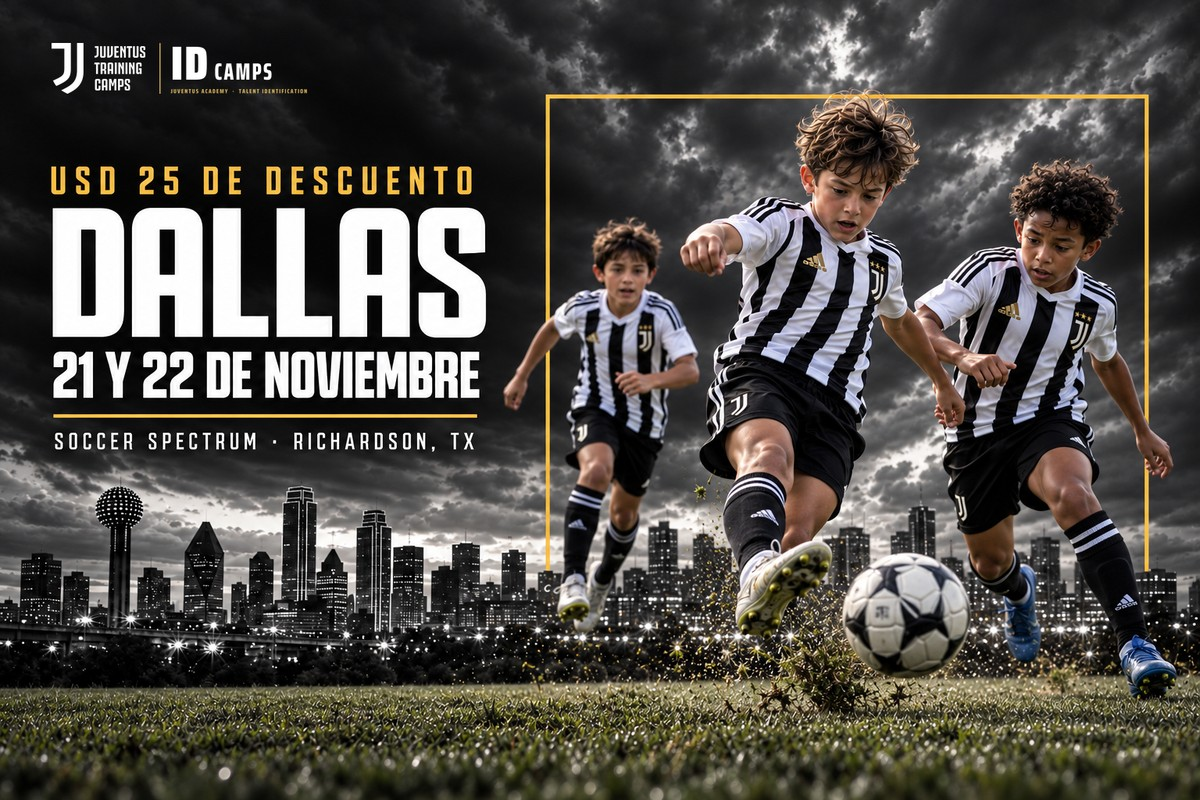
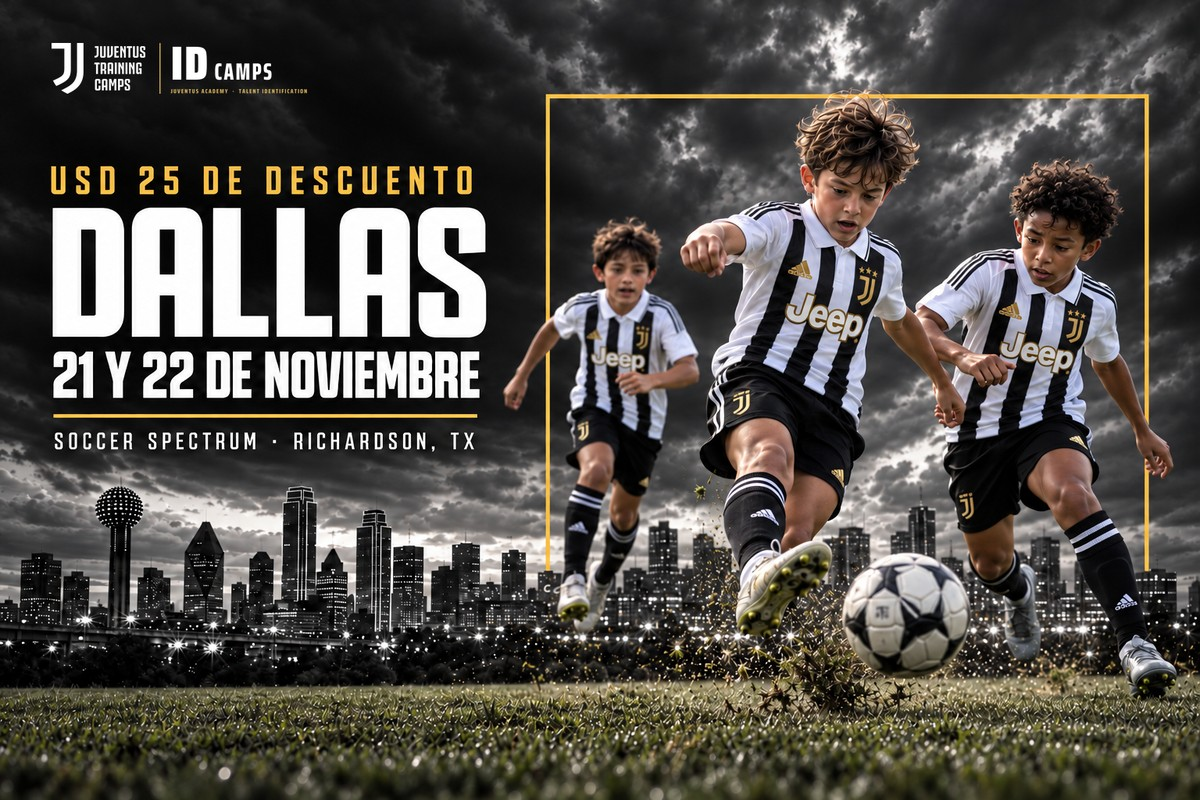
Camiseta 2026-27 (Jeep) en las cabeceras y la foto de los correos

diff --git a/email_pasadas.html b/email_pasadas.html
@@ -6,9 +6,9 @@
 <table role="presentation" width="100%" cellpadding="0" cellspacing="0" border="0" style="background-color:#eceae6;">
 <tr><td align="center" style="padding:16px 8px;">
 <table role="presentation" width="600" cellpadding="0" cellspacing="0" border="0" style="width:100%;max-width:600px;background-color:#ffffff;">
-<tr><td><a href="https://juventuscampsusa.com/id-camps/128/Dallas?utm_source=email&utm_medium=email&utm_campaign=idcamps_2627&utm_term=dal&utm_content=dal_codigo_pasadas#:~:text=Register%20%2D%20Juventus%20Training%20Camps"><img src="https://almacenamiento982-blip.github.io/idcamps-dallas-codigo/img/cab_codigo.jpg" width="600" alt="Juventus ID Camp Dallas · 21 y 22 de noviembre · USD 25 de descuento" style="display:block;width:100%;max-width:600px;height:auto;border:0;margin:0;"></a></td></tr>
+<tr><td><a href="https://juventuscampsusa.com/id-camps/128/Dallas?utm_source=email&utm_medium=email&utm_campaign=idcamps_2627&utm_term=dal&utm_content=dal_codigo_pasadas#:~:text=Register%20%2D%20Juventus%20Training%20Camps"><img src="https://almacenamiento982-blip.github.io/idcamps-dallas-codigo/img/cab_codigo.jpg?v=2627" width="600" alt="Juventus ID Camp Dallas · 21 y 22 de noviembre · USD 25 de descuento" style="display:block;width:100%;max-width:600px;height:auto;border:0;margin:0;"></a></td></tr>
 <tr><td style="padding:28px 30px 6px;font-family:Arial,Helvetica,sans-serif;font-size:16px;line-height:25px;color:#111111;">
-<p style="margin:0 0 14px;">Hola María,</p><p style="margin:0 0 14px;">Hace un tiempo empezaste la inscripción para el ID Camp de Juventus en Dallas. Este año volvemos a Soccer Spectrum, el sábado 21 y domingo 22 de noviembre, con los entrenadores de Juventus Academy que vienen desde Italia.</p><p style="margin:0 0 6px;">Para las familias que ya se interesaron en el camp, tenemos un descuento:</p><table role="presentation" width="100%" cellpadding="0" cellspacing="0" border="0" style="margin:18px 0;"><tr><td align="center" style="border:2px dashed #A87A2D;background-color:#faf6ee;padding:18px 14px;font-family:Arial,Helvetica,sans-serif;"><div style="font-size:12px;letter-spacing:2px;text-transform:uppercase;color:#A87A2D;font-weight:bold;">Tu código de descuento</div><div style="font-size:26px;line-height:34px;font-weight:bold;letter-spacing:1px;color:#111111;margin:6px 0;word-break:break-word;">JUVESPECTRUM</div><div style="font-size:16px;color:#111111;"><b>USD 25 de descuento</b> · válido hasta el sábado 24 de octubre</div></td></tr></table><p style="margin:0 0 10px;">Es un descuento solo para esta semana: vence el sábado 24 de octubre. Aprovéchalo antes de que se cierre el plazo.</p><table role="presentation" cellpadding="0" cellspacing="0" border="0" style="margin:4px 0 6px;"><tr><td valign="top" style="font-family:Arial,Helvetica,sans-serif;font-size:15px;font-weight:bold;color:#A87A2D;padding:4px 10px 4px 0;">1</td><td style="font-family:Arial,Helvetica,sans-serif;font-size:15px;line-height:23px;color:#111111;padding:4px 0;">Entra a la página del ID Camp de Dallas con el botón de abajo.</td></tr><tr><td valign="top" style="font-family:Arial,Helvetica,sans-serif;font-size:15px;font-weight:bold;color:#A87A2D;padding:4px 10px 4px 0;">2</td><td style="font-family:Arial,Helvetica,sans-serif;font-size:15px;line-height:23px;color:#111111;padding:4px 0;">Completa la inscripción con los datos de tu hijo o hija.</td></tr><tr><td valign="top" style="font-family:Arial,Helvetica,sans-serif;font-size:15px;font-weight:bold;color:#A87A2D;padding:4px 10px 4px 0;">3</td><td style="font-family:Arial,Helvetica,sans-serif;font-size:15px;line-height:23px;color:#111111;padding:4px 0;">Cuando el sistema te pida un código de descuento, escribe <b>JUVESPECTRUM</b>.</td></tr></table><table role="presentation" cellpadding="0" cellspacing="0" border="0" align="center" style="margin:22px auto 10px;"><tr><td align="center" bgcolor="#A87A2D" style="background-color:#A87A2D;"><a href="https://juventuscampsusa.com/id-camps/128/Dallas?utm_source=email&utm_medium=email&utm_campaign=idcamps_2627&utm_term=dal&utm_content=dal_codigo_pasadas#:~:text=Register%20%2D%20Juventus%20Training%20Camps" style="display:inline-block;padding:15px 30px;font-family:Arial,Helvetica,sans-serif;font-size:14px;font-weight:bold;letter-spacing:1px;text-transform:uppercase;color:#111111;text-decoration:none;">Inscribirme con mi código &rarr;</a></td></tr></table><table role="presentation" width="100%" cellpadding="0" cellspacing="0" border="0" style="margin:16px 0;"><tr><td style="background-color:#111111;padding:14px 18px;font-family:Arial,Helvetica,sans-serif;font-size:15px;line-height:26px;color:#ffffff;">&#128197; Sábado 21 y domingo 22 de noviembre · 9 AM a 1 PM<br>&#128205; Soccer Spectrum, 1251 Digital Dr., Richardson, TX<br>&#9917; Niños y niñas de 6 a 16 años, jugadores y porteros</td></tr></table><a href="https://juventuscampsusa.com/id-camps/128/Dallas?utm_source=email&utm_medium=email&utm_campaign=idcamps_2627&utm_term=dal&utm_content=dal_codigo_pasadas#:~:text=Register%20%2D%20Juventus%20Training%20Camps"><img src="https://almacenamiento982-blip.github.io/idcamps-dallas-codigo/img/familias.jpg" width="540" alt="Jugadores del ID Camp de Juventus abrazados" style="display:block;width:100%;max-width:540px;height:auto;border:0;margin:6px 0 14px;"></a><p style="margin:0 0 6px;">Más de 300 familias del área de Dallas ya entrenaron con Juventus. Durante los dos días, los entrenadores observan a cada jugador, y los que más se destacan quedan anotados para futuras oportunidades de Juventus Academy, como la Juventus Training Experience en Italia.</p>
+<p style="margin:0 0 14px;">Hola María,</p><p style="margin:0 0 14px;">Hace un tiempo empezaste la inscripción para el ID Camp de Juventus en Dallas. Este año volvemos a Soccer Spectrum, el sábado 21 y domingo 22 de noviembre, con los entrenadores de Juventus Academy que vienen desde Italia.</p><p style="margin:0 0 6px;">Para las familias que ya se interesaron en el camp, tenemos un descuento:</p><table role="presentation" width="100%" cellpadding="0" cellspacing="0" border="0" style="margin:18px 0;"><tr><td align="center" style="border:2px dashed #A87A2D;background-color:#faf6ee;padding:18px 14px;font-family:Arial,Helvetica,sans-serif;"><div style="font-size:12px;letter-spacing:2px;text-transform:uppercase;color:#A87A2D;font-weight:bold;">Tu código de descuento</div><div style="font-size:26px;line-height:34px;font-weight:bold;letter-spacing:1px;color:#111111;margin:6px 0;word-break:break-word;">JUVESPECTRUM</div><div style="font-size:16px;color:#111111;"><b>USD 25 de descuento</b> · válido hasta el sábado 24 de octubre</div></td></tr></table><p style="margin:0 0 10px;">Es un descuento solo para esta semana: vence el sábado 24 de octubre. Aprovéchalo antes de que se cierre el plazo.</p><table role="presentation" cellpadding="0" cellspacing="0" border="0" style="margin:4px 0 6px;"><tr><td valign="top" style="font-family:Arial,Helvetica,sans-serif;font-size:15px;font-weight:bold;color:#A87A2D;padding:4px 10px 4px 0;">1</td><td style="font-family:Arial,Helvetica,sans-serif;font-size:15px;line-height:23px;color:#111111;padding:4px 0;">Entra a la página del ID Camp de Dallas con el botón de abajo.</td></tr><tr><td valign="top" style="font-family:Arial,Helvetica,sans-serif;font-size:15px;font-weight:bold;color:#A87A2D;padding:4px 10px 4px 0;">2</td><td style="font-family:Arial,Helvetica,sans-serif;font-size:15px;line-height:23px;color:#111111;padding:4px 0;">Completa la inscripción con los datos de tu hijo o hija.</td></tr><tr><td valign="top" style="font-family:Arial,Helvetica,sans-serif;font-size:15px;font-weight:bold;color:#A87A2D;padding:4px 10px 4px 0;">3</td><td style="font-family:Arial,Helvetica,sans-serif;font-size:15px;line-height:23px;color:#111111;padding:4px 0;">Cuando el sistema te pida un código de descuento, escribe <b>JUVESPECTRUM</b>.</td></tr></table><table role="presentation" cellpadding="0" cellspacing="0" border="0" align="center" style="margin:22px auto 10px;"><tr><td align="center" bgcolor="#A87A2D" style="background-color:#A87A2D;"><a href="https://juventuscampsusa.com/id-camps/128/Dallas?utm_source=email&utm_medium=email&utm_campaign=idcamps_2627&utm_term=dal&utm_content=dal_codigo_pasadas#:~:text=Register%20%2D%20Juventus%20Training%20Camps" style="display:inline-block;padding:15px 30px;font-family:Arial,Helvetica,sans-serif;font-size:14px;font-weight:bold;letter-spacing:1px;text-transform:uppercase;color:#111111;text-decoration:none;">Inscribirme con mi código &rarr;</a></td></tr></table><table role="presentation" width="100%" cellpadding="0" cellspacing="0" border="0" style="margin:16px 0;"><tr><td style="background-color:#111111;padding:14px 18px;font-family:Arial,Helvetica,sans-serif;font-size:15px;line-height:26px;color:#ffffff;">&#128197; Sábado 21 y domingo 22 de noviembre · 9 AM a 1 PM<br>&#128205; Soccer Spectrum, 1251 Digital Dr., Richardson, TX<br>&#9917; Niños y niñas de 6 a 16 años, jugadores y porteros</td></tr></table><a href="https://juventuscampsusa.com/id-camps/128/Dallas?utm_source=email&utm_medium=email&utm_campaign=idcamps_2627&utm_term=dal&utm_content=dal_codigo_pasadas#:~:text=Register%20%2D%20Juventus%20Training%20Camps"><img src="https://almacenamiento982-blip.github.io/idcamps-dallas-codigo/img/familias.jpg?v=2627" width="540" alt="Jugadores del ID Camp de Juventus abrazados" style="display:block;width:100%;max-width:540px;height:auto;border:0;margin:6px 0 14px;"></a><p style="margin:0 0 6px;">Más de 300 familias del área de Dallas ya entrenaron con Juventus. Durante los dos días, los entrenadores observan a cada jugador, y los que más se destacan quedan anotados para futuras oportunidades de Juventus Academy, como la Juventus Training Experience en Italia.</p>
 </td></tr>
 <tr><td style="padding:16px 30px 26px;"><table role="presentation" width="100%" cellpadding="0" cellspacing="0" border="0"><tr><td style="background-color:#f4f2ee;padding:16px 18px;font-family:Arial,Helvetica,sans-serif;font-size:14px;line-height:21px;color:#333333;"><b>Prefer English?</b> The Juventus ID Camp returns to Soccer Spectrum on November 21–22. You started a registration before: use code <b>JUVESPECTRUM</b> for USD 25 off, valid until Saturday, October 24. <a href="https://juventuscampsusa.com/id-camps/128/Dallas?utm_source=email&utm_medium=email&utm_campaign=idcamps_2627&utm_term=dal&utm_content=dal_codigo_pasadas#:~:text=Register%20%2D%20Juventus%20Training%20Camps" style="color:#A87A2D;font-weight:bold;">Use your code here</a>.</td></tr></table></td></tr>
 </table>

diff --git a/email_welcome.html b/email_welcome.html
@@ -6,9 +6,9 @@
 <table role="presentation" width="100%" cellpadding="0" cellspacing="0" border="0" style="background-color:#eceae6;">
 <tr><td align="center" style="padding:16px 8px;">
 <table role="presentation" width="600" cellpadding="0" cellspacing="0" border="0" style="width:100%;max-width:600px;background-color:#ffffff;">
-<tr><td><a href="https://juventuscampsusa.com/id-camps/128/Dallas?utm_source=email&utm_medium=email&utm_campaign=idcamps_2627&utm_term=dal&utm_content=dal_codigo_welcome#:~:text=Register%20%2D%20Juventus%20Training%20Camps"><img src="https://almacenamiento982-blip.github.io/idcamps-dallas-codigo/img/cab_welcome.jpg" width="600" alt="Juventus ID Camp Dallas · 21 y 22 de noviembre · Bienvenidos de vuelta" style="display:block;width:100%;max-width:600px;height:auto;border:0;margin:0;"></a></td></tr>
+<tr><td><a href="https://juventuscampsusa.com/id-camps/128/Dallas?utm_source=email&utm_medium=email&utm_campaign=idcamps_2627&utm_term=dal&utm_content=dal_codigo_welcome#:~:text=Register%20%2D%20Juventus%20Training%20Camps"><img src="https://almacenamiento982-blip.github.io/idcamps-dallas-codigo/img/cab_welcome.jpg?v=2627" width="600" alt="Juventus ID Camp Dallas · 21 y 22 de noviembre · Bienvenidos de vuelta" style="display:block;width:100%;max-width:600px;height:auto;border:0;margin:0;"></a></td></tr>
 <tr><td style="padding:28px 30px 6px;font-family:Arial,Helvetica,sans-serif;font-size:16px;line-height:25px;color:#111111;">
-<p style="margin:0 0 14px;">Hola María,</p><p style="margin:0 0 14px;">Tu familia ya vivió el ID Camp de Juventus en Dallas. Este año volvemos a Soccer Spectrum, el sábado 21 y domingo 22 de noviembre, con los entrenadores de Juventus Academy que vienen desde Italia. El ID Camp viene a Dallas una sola vez al año.</p><p style="margin:0 0 6px;">Como ya eres parte de la familia Juventus, tienes un descuento exclusivo:</p><table role="presentation" width="100%" cellpadding="0" cellspacing="0" border="0" style="margin:18px 0;"><tr><td align="center" style="border:2px dashed #A87A2D;background-color:#faf6ee;padding:18px 14px;font-family:Arial,Helvetica,sans-serif;"><div style="font-size:12px;letter-spacing:2px;text-transform:uppercase;color:#A87A2D;font-weight:bold;">Exclusivo para familias Juventus</div><div style="font-size:26px;line-height:34px;font-weight:bold;letter-spacing:1px;color:#111111;margin:6px 0;word-break:break-word;">JUVESPECTRUM</div><div style="font-size:16px;color:#111111;"><b>USD 25 de descuento</b> · válido hasta el sábado 24 de octubre</div></td></tr></table><table role="presentation" cellpadding="0" cellspacing="0" border="0" style="margin:4px 0 6px;"><tr><td valign="top" style="font-family:Arial,Helvetica,sans-serif;font-size:15px;font-weight:bold;color:#A87A2D;padding:4px 10px 4px 0;">1</td><td style="font-family:Arial,Helvetica,sans-serif;font-size:15px;line-height:23px;color:#111111;padding:4px 0;">Entra a la página del ID Camp de Dallas con el botón de abajo.</td></tr><tr><td valign="top" style="font-family:Arial,Helvetica,sans-serif;font-size:15px;font-weight:bold;color:#A87A2D;padding:4px 10px 4px 0;">2</td><td style="font-family:Arial,Helvetica,sans-serif;font-size:15px;line-height:23px;color:#111111;padding:4px 0;">Completa la inscripción con los datos de tu hijo o hija.</td></tr><tr><td valign="top" style="font-family:Arial,Helvetica,sans-serif;font-size:15px;font-weight:bold;color:#A87A2D;padding:4px 10px 4px 0;">3</td><td style="font-family:Arial,Helvetica,sans-serif;font-size:15px;line-height:23px;color:#111111;padding:4px 0;">Cuando el sistema te pida un código de descuento, escribe <b>JUVESPECTRUM</b>.</td></tr></table><table role="presentation" cellpadding="0" cellspacing="0" border="0" align="center" style="margin:22px auto 10px;"><tr><td align="center" bgcolor="#A87A2D" style="background-color:#A87A2D;"><a href="https://juventuscampsusa.com/id-camps/128/Dallas?utm_source=email&utm_medium=email&utm_campaign=idcamps_2627&utm_term=dal&utm_content=dal_codigo_welcome#:~:text=Register%20%2D%20Juventus%20Training%20Camps" style="display:inline-block;padding:15px 30px;font-family:Arial,Helvetica,sans-serif;font-size:14px;font-weight:bold;letter-spacing:1px;text-transform:uppercase;color:#111111;text-decoration:none;">Inscribirme con mi código &rarr;</a></td></tr></table><table role="presentation" width="100%" cellpadding="0" cellspacing="0" border="0" style="margin:16px 0;"><tr><td style="background-color:#111111;padding:14px 18px;font-family:Arial,Helvetica,sans-serif;font-size:15px;line-height:26px;color:#ffffff;">&#128197; Sábado 21 y domingo 22 de noviembre · 9 AM a 1 PM<br>&#128205; Soccer Spectrum, 1251 Digital Dr., Richardson, TX<br>&#9917; Niños y niñas de 6 a 16 años, jugadores y porteros</td></tr></table><a href="https://juventuscampsusa.com/id-camps/128/Dallas?utm_source=email&utm_medium=email&utm_campaign=idcamps_2627&utm_term=dal&utm_content=dal_codigo_welcome#:~:text=Register%20%2D%20Juventus%20Training%20Camps"><img src="https://almacenamiento982-blip.github.io/idcamps-dallas-codigo/img/familias.jpg" width="540" alt="Jugadores del ID Camp de Juventus abrazados" style="display:block;width:100%;max-width:540px;height:auto;border:0;margin:6px 0 14px;"></a><p style="margin:0 0 6px;">Durante los dos días, los entrenadores observan a cada jugador. Los que más se destacan quedan anotados para futuras oportunidades de Juventus Academy, como la Juventus Training Experience en Italia.</p>
+<p style="margin:0 0 14px;">Hola María,</p><p style="margin:0 0 14px;">Tu familia ya vivió el ID Camp de Juventus en Dallas. Este año volvemos a Soccer Spectrum, el sábado 21 y domingo 22 de noviembre, con los entrenadores de Juventus Academy que vienen desde Italia. El ID Camp viene a Dallas una sola vez al año.</p><p style="margin:0 0 6px;">Como ya eres parte de la familia Juventus, tienes un descuento exclusivo:</p><table role="presentation" width="100%" cellpadding="0" cellspacing="0" border="0" style="margin:18px 0;"><tr><td align="center" style="border:2px dashed #A87A2D;background-color:#faf6ee;padding:18px 14px;font-family:Arial,Helvetica,sans-serif;"><div style="font-size:12px;letter-spacing:2px;text-transform:uppercase;color:#A87A2D;font-weight:bold;">Exclusivo para familias Juventus</div><div style="font-size:26px;line-height:34px;font-weight:bold;letter-spacing:1px;color:#111111;margin:6px 0;word-break:break-word;">JUVESPECTRUM</div><div style="font-size:16px;color:#111111;"><b>USD 25 de descuento</b> · válido hasta el sábado 24 de octubre</div></td></tr></table><table role="presentation" cellpadding="0" cellspacing="0" border="0" style="margin:4px 0 6px;"><tr><td valign="top" style="font-family:Arial,Helvetica,sans-serif;font-size:15px;font-weight:bold;color:#A87A2D;padding:4px 10px 4px 0;">1</td><td style="font-family:Arial,Helvetica,sans-serif;font-size:15px;line-height:23px;color:#111111;padding:4px 0;">Entra a la página del ID Camp de Dallas con el botón de abajo.</td></tr><tr><td valign="top" style="font-family:Arial,Helvetica,sans-serif;font-size:15px;font-weight:bold;color:#A87A2D;padding:4px 10px 4px 0;">2</td><td style="font-family:Arial,Helvetica,sans-serif;font-size:15px;line-height:23px;color:#111111;padding:4px 0;">Completa la inscripción con los datos de tu hijo o hija.</td></tr><tr><td valign="top" style="font-family:Arial,Helvetica,sans-serif;font-size:15px;font-weight:bold;color:#A87A2D;padding:4px 10px 4px 0;">3</td><td style="font-family:Arial,Helvetica,sans-serif;font-size:15px;line-height:23px;color:#111111;padding:4px 0;">Cuando el sistema te pida un código de descuento, escribe <b>JUVESPECTRUM</b>.</td></tr></table><table role="presentation" cellpadding="0" cellspacing="0" border="0" align="center" style="margin:22px auto 10px;"><tr><td align="center" bgcolor="#A87A2D" style="background-color:#A87A2D;"><a href="https://juventuscampsusa.com/id-camps/128/Dallas?utm_source=email&utm_medium=email&utm_campaign=idcamps_2627&utm_term=dal&utm_content=dal_codigo_welcome#:~:text=Register%20%2D%20Juventus%20Training%20Camps" style="display:inline-block;padding:15px 30px;font-family:Arial,Helvetica,sans-serif;font-size:14px;font-weight:bold;letter-spacing:1px;text-transform:uppercase;color:#111111;text-decoration:none;">Inscribirme con mi código &rarr;</a></td></tr></table><table role="presentation" width="100%" cellpadding="0" cellspacing="0" border="0" style="margin:16px 0;"><tr><td style="background-color:#111111;padding:14px 18px;font-family:Arial,Helvetica,sans-serif;font-size:15px;line-height:26px;color:#ffffff;">&#128197; Sábado 21 y domingo 22 de noviembre · 9 AM a 1 PM<br>&#128205; Soccer Spectrum, 1251 Digital Dr., Richardson, TX<br>&#9917; Niños y niñas de 6 a 16 años, jugadores y porteros</td></tr></table><a href="https://juventuscampsusa.com/id-camps/128/Dallas?utm_source=email&utm_medium=email&utm_campaign=idcamps_2627&utm_term=dal&utm_content=dal_codigo_welcome#:~:text=Register%20%2D%20Juventus%20Training%20Camps"><img src="https://almacenamiento982-blip.github.io/idcamps-dallas-codigo/img/familias.jpg?v=2627" width="540" alt="Jugadores del ID Camp de Juventus abrazados" style="display:block;width:100%;max-width:540px;height:auto;border:0;margin:6px 0 14px;"></a><p style="margin:0 0 6px;">Durante los dos días, los entrenadores observan a cada jugador. Los que más se destacan quedan anotados para futuras oportunidades de Juventus Academy, como la Juventus Training Experience en Italia.</p>
 </td></tr>
 <tr><td style="padding:16px 30px 26px;"><table role="presentation" width="100%" cellpadding="0" cellspacing="0" border="0"><tr><td style="background-color:#f4f2ee;padding:16px 18px;font-family:Arial,Helvetica,sans-serif;font-size:14px;line-height:21px;color:#333333;"><b>Prefer English?</b> Welcome back! The Juventus ID Camp returns to Soccer Spectrum on November 21–22. As a Juventus family, use code <b>JUVESPECTRUM</b> for USD 25 off, valid until Saturday, October 24. <a href="https://juventuscampsusa.com/id-camps/128/Dallas?utm_source=email&utm_medium=email&utm_campaign=idcamps_2627&utm_term=dal&utm_content=dal_codigo_welcome#:~:text=Register%20%2D%20Juventus%20Training%20Camps" style="color:#A87A2D;font-weight:bold;">Use your code here</a>.</td></tr></table></td></tr>
 </table>

diff --git a/email_codigo.html b/email_codigo.html
@@ -6,9 +6,9 @@
 <table role="presentation" width="100%" cellpadding="0" cellspacing="0" border="0" style="background-color:#eceae6;">
 <tr><td align="center" style="padding:16px 8px;">
 <table role="presentation" width="600" cellpadding="0" cellspacing="0" border="0" style="width:100%;max-width:600px;background-color:#ffffff;">
-<tr><td><a href="https://juventuscampsusa.com/id-camps/128/Dallas?utm_source=email&utm_medium=email&utm_campaign=idcamps_2627&utm_term=dal&utm_content=dal_codigo_sinpago#:~:text=Register%20%2D%20Juventus%20Training%20Camps"><img src="https://almacenamiento982-blip.github.io/idcamps-dallas-codigo/img/cab_codigo.jpg" width="600" alt="Juventus ID Camp Dallas · 21 y 22 de noviembre · USD 25 de descuento" style="display:block;width:100%;max-width:600px;height:auto;border:0;margin:0;"></a></td></tr>
+<tr><td><a href="https://juventuscampsusa.com/id-camps/128/Dallas?utm_source=email&utm_medium=email&utm_campaign=idcamps_2627&utm_term=dal&utm_content=dal_codigo_sinpago#:~:text=Register%20%2D%20Juventus%20Training%20Camps"><img src="https://almacenamiento982-blip.github.io/idcamps-dallas-codigo/img/cab_codigo.jpg?v=2627" width="600" alt="Juventus ID Camp Dallas · 21 y 22 de noviembre · USD 25 de descuento" style="display:block;width:100%;max-width:600px;height:auto;border:0;margin:0;"></a></td></tr>
 <tr><td style="padding:28px 30px 6px;font-family:Arial,Helvetica,sans-serif;font-size:16px;line-height:25px;color:#111111;">
-<p style="margin:0 0 14px;">Hola María,</p><p style="margin:0 0 14px;">Empezaste la inscripción para el ID Camp de Juventus en Dallas y queremos ayudarte a terminarla. Solo para las familias que ya la empezaron, tenemos un descuento especial:</p><table role="presentation" width="100%" cellpadding="0" cellspacing="0" border="0" style="margin:18px 0;"><tr><td align="center" style="border:2px dashed #A87A2D;background-color:#faf6ee;padding:18px 14px;font-family:Arial,Helvetica,sans-serif;"><div style="font-size:12px;letter-spacing:2px;text-transform:uppercase;color:#A87A2D;font-weight:bold;">Tu código de descuento</div><div style="font-size:26px;line-height:34px;font-weight:bold;letter-spacing:1px;color:#111111;margin:6px 0;word-break:break-word;">JUVESPECTRUM</div><div style="font-size:16px;color:#111111;"><b>USD 25 de descuento</b> · válido hasta el sábado 24 de octubre</div></td></tr></table><p style="margin:0 0 10px;">Es un descuento solo para esta semana: vence el sábado 24 de octubre. Aprovéchalo antes de que se cierre el plazo.</p><table role="presentation" cellpadding="0" cellspacing="0" border="0" style="margin:4px 0 6px;"><tr><td valign="top" style="font-family:Arial,Helvetica,sans-serif;font-size:15px;font-weight:bold;color:#A87A2D;padding:4px 10px 4px 0;">1</td><td style="font-family:Arial,Helvetica,sans-serif;font-size:15px;line-height:23px;color:#111111;padding:4px 0;">Entra a la página del ID Camp de Dallas con el botón de abajo.</td></tr><tr><td valign="top" style="font-family:Arial,Helvetica,sans-serif;font-size:15px;font-weight:bold;color:#A87A2D;padding:4px 10px 4px 0;">2</td><td style="font-family:Arial,Helvetica,sans-serif;font-size:15px;line-height:23px;color:#111111;padding:4px 0;">Completa la inscripción con los datos de tu hijo o hija.</td></tr><tr><td valign="top" style="font-family:Arial,Helvetica,sans-serif;font-size:15px;font-weight:bold;color:#A87A2D;padding:4px 10px 4px 0;">3</td><td style="font-family:Arial,Helvetica,sans-serif;font-size:15px;line-height:23px;color:#111111;padding:4px 0;">Cuando el sistema te pida un código de descuento, escribe <b>JUVESPECTRUM</b>.</td></tr></table><table role="presentation" cellpadding="0" cellspacing="0" border="0" align="center" style="margin:22px auto 10px;"><tr><td align="center" bgcolor="#A87A2D" style="background-color:#A87A2D;"><a href="https://juventuscampsusa.com/id-camps/128/Dallas?utm_source=email&utm_medium=email&utm_campaign=idcamps_2627&utm_term=dal&utm_content=dal_codigo_sinpago#:~:text=Register%20%2D%20Juventus%20Training%20Camps" style="display:inline-block;padding:15px 30px;font-family:Arial,Helvetica,sans-serif;font-size:14px;font-weight:bold;letter-spacing:1px;text-transform:uppercase;color:#111111;text-decoration:none;">Usar mi código y terminar &rarr;</a></td></tr></table><table role="presentation" width="100%" cellpadding="0" cellspacing="0" border="0" style="margin:16px 0;"><tr><td style="background-color:#111111;padding:14px 18px;font-family:Arial,Helvetica,sans-serif;font-size:15px;line-height:26px;color:#ffffff;">&#128197; Sábado 21 y domingo 22 de noviembre · 9 AM a 1 PM<br>&#128205; Soccer Spectrum, 1251 Digital Dr., Richardson, TX<br>&#9917; Niños y niñas de 6 a 16 años, jugadores y porteros</td></tr></table><a href="https://juventuscampsusa.com/id-camps/128/Dallas?utm_source=email&utm_medium=email&utm_campaign=idcamps_2627&utm_term=dal&utm_content=dal_codigo_sinpago#:~:text=Register%20%2D%20Juventus%20Training%20Camps"><img src="https://almacenamiento982-blip.github.io/idcamps-dallas-codigo/img/familias.jpg" width="540" alt="Jugadores del ID Camp de Juventus abrazados" style="display:block;width:100%;max-width:540px;height:auto;border:0;margin:6px 0 14px;"></a><p style="margin:0 0 12px;">Más de 300 familias del área de Dallas ya entrenaron con Juventus. Son dos días con los entrenadores de Juventus Academy que vienen desde Italia: físico, técnica y juego, en grupos pequeños y con atención a cada jugador.</p>
+<p style="margin:0 0 14px;">Hola María,</p><p style="margin:0 0 14px;">Empezaste la inscripción para el ID Camp de Juventus en Dallas y queremos ayudarte a terminarla. Solo para las familias que ya la empezaron, tenemos un descuento especial:</p><table role="presentation" width="100%" cellpadding="0" cellspacing="0" border="0" style="margin:18px 0;"><tr><td align="center" style="border:2px dashed #A87A2D;background-color:#faf6ee;padding:18px 14px;font-family:Arial,Helvetica,sans-serif;"><div style="font-size:12px;letter-spacing:2px;text-transform:uppercase;color:#A87A2D;font-weight:bold;">Tu código de descuento</div><div style="font-size:26px;line-height:34px;font-weight:bold;letter-spacing:1px;color:#111111;margin:6px 0;word-break:break-word;">JUVESPECTRUM</div><div style="font-size:16px;color:#111111;"><b>USD 25 de descuento</b> · válido hasta el sábado 24 de octubre</div></td></tr></table><p style="margin:0 0 10px;">Es un descuento solo para esta semana: vence el sábado 24 de octubre. Aprovéchalo antes de que se cierre el plazo.</p><table role="presentation" cellpadding="0" cellspacing="0" border="0" style="margin:4px 0 6px;"><tr><td valign="top" style="font-family:Arial,Helvetica,sans-serif;font-size:15px;font-weight:bold;color:#A87A2D;padding:4px 10px 4px 0;">1</td><td style="font-family:Arial,Helvetica,sans-serif;font-size:15px;line-height:23px;color:#111111;padding:4px 0;">Entra a la página del ID Camp de Dallas con el botón de abajo.</td></tr><tr><td valign="top" style="font-family:Arial,Helvetica,sans-serif;font-size:15px;font-weight:bold;color:#A87A2D;padding:4px 10px 4px 0;">2</td><td style="font-family:Arial,Helvetica,sans-serif;font-size:15px;line-height:23px;color:#111111;padding:4px 0;">Completa la inscripción con los datos de tu hijo o hija.</td></tr><tr><td valign="top" style="font-family:Arial,Helvetica,sans-serif;font-size:15px;font-weight:bold;color:#A87A2D;padding:4px 10px 4px 0;">3</td><td style="font-family:Arial,Helvetica,sans-serif;font-size:15px;line-height:23px;color:#111111;padding:4px 0;">Cuando el sistema te pida un código de descuento, escribe <b>JUVESPECTRUM</b>.</td></tr></table><table role="presentation" cellpadding="0" cellspacing="0" border="0" align="center" style="margin:22px auto 10px;"><tr><td align="center" bgcolor="#A87A2D" style="background-color:#A87A2D;"><a href="https://juventuscampsusa.com/id-camps/128/Dallas?utm_source=email&utm_medium=email&utm_campaign=idcamps_2627&utm_term=dal&utm_content=dal_codigo_sinpago#:~:text=Register%20%2D%20Juventus%20Training%20Camps" style="display:inline-block;padding:15px 30px;font-family:Arial,Helvetica,sans-serif;font-size:14px;font-weight:bold;letter-spacing:1px;text-transform:uppercase;color:#111111;text-decoration:none;">Usar mi código y terminar &rarr;</a></td></tr></table><table role="presentation" width="100%" cellpadding="0" cellspacing="0" border="0" style="margin:16px 0;"><tr><td style="background-color:#111111;padding:14px 18px;font-family:Arial,Helvetica,sans-serif;font-size:15px;line-height:26px;color:#ffffff;">&#128197; Sábado 21 y domingo 22 de noviembre · 9 AM a 1 PM<br>&#128205; Soccer Spectrum, 1251 Digital Dr., Richardson, TX<br>&#9917; Niños y niñas de 6 a 16 años, jugadores y porteros</td></tr></table><a href="https://juventuscampsusa.com/id-camps/128/Dallas?utm_source=email&utm_medium=email&utm_campaign=idcamps_2627&utm_term=dal&utm_content=dal_codigo_sinpago#:~:text=Register%20%2D%20Juventus%20Training%20Camps"><img src="https://almacenamiento982-blip.github.io/idcamps-dallas-codigo/img/familias.jpg?v=2627" width="540" alt="Jugadores del ID Camp de Juventus abrazados" style="display:block;width:100%;max-width:540px;height:auto;border:0;margin:6px 0 14px;"></a><p style="margin:0 0 12px;">Más de 300 familias del área de Dallas ya entrenaron con Juventus. Son dos días con los entrenadores de Juventus Academy que vienen desde Italia: físico, técnica y juego, en grupos pequeños y con atención a cada jugador.</p>
 </td></tr>
 <tr><td style="padding:16px 30px 26px;"><table role="presentation" width="100%" cellpadding="0" cellspacing="0" border="0"><tr><td style="background-color:#f4f2ee;padding:16px 18px;font-family:Arial,Helvetica,sans-serif;font-size:14px;line-height:21px;color:#333333;"><b>Prefer English?</b> You started your registration for the Juventus ID Camp Dallas (Nov 21–22, Soccer Spectrum). Use code <b>JUVESPECTRUM</b> for USD 25 off, valid until Saturday, October 24. <a href="https://juventuscampsusa.com/id-camps/128/Dallas?utm_source=email&utm_medium=email&utm_campaign=idcamps_2627&utm_term=dal&utm_content=dal_codigo_sinpago#:~:text=Register%20%2D%20Juventus%20Training%20Camps" style="color:#A87A2D;font-weight:bold;">Use your code here</a>.</td></tr></table></td></tr>
 </table>
